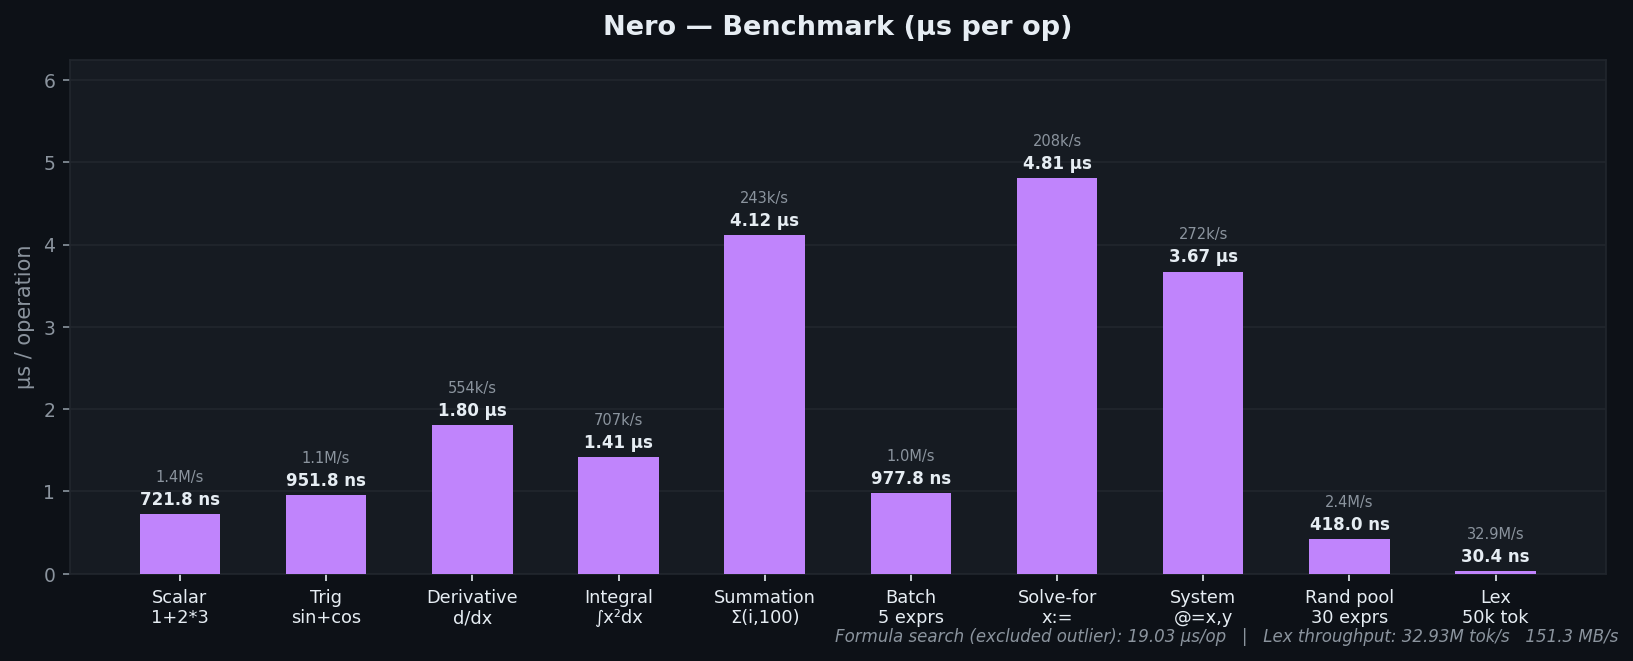
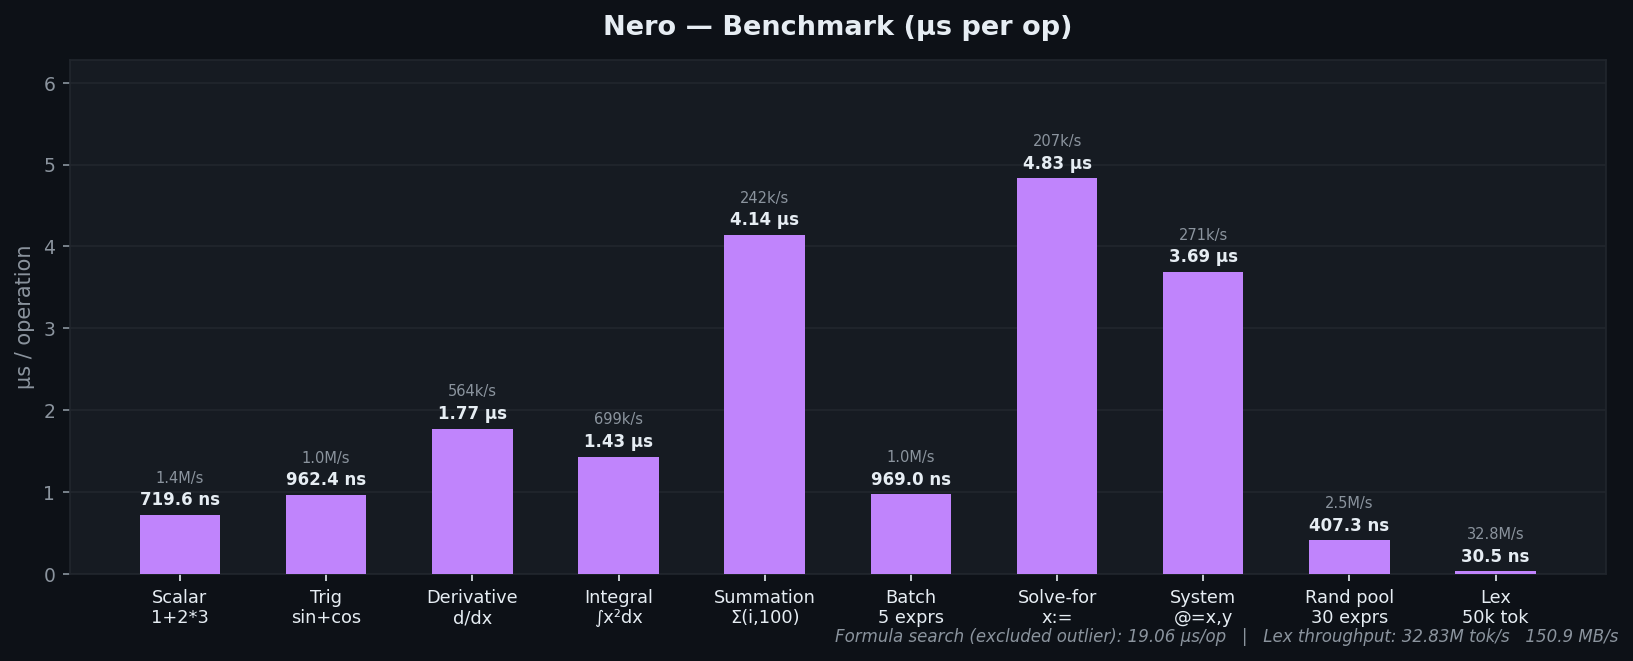
fix: ATM -> also in constants_gen.ts

diff --git a/scripts/constants_gen.ts b/scripts/constants_gen.ts
@@ -36,7 +36,7 @@ const CONSTANTS: Constant[] = [
     ["m_n",       "1.674927*10^{-27}",       "\\kg",                          "Neutron mass"],
 
     ["R_g",       "8.31446",                 "\\J\\K^{-1}\\mol^{-1}",         "Ideal gas constant"],
-    ["R_a",       "0.0821",                  "\\ATM\\L\\K^{-1}\\mol^{-1}",    "Ideal gas constant (atm units)"],
+    ["R_a",       "0.0821",                  "\\atm\\L\\K^{-1}\\mol^{-1}",    "Ideal gas constant (atm units)"],
     ["C_K",       "273.15",                  "\\K",                           "Celsius->Kelvin offset"],
     ["h",         "6.62607015*10^{-34}",     "\\J\\s",                        "Planck constant"],
     ["a_0",       "5.291772*10^{-11}",       "\\m",                           "Bohr radius"],

diff --git a/README.md b/README.md
@@ -165,7 +165,7 @@ Supported:
 | $\mathrm{m_p}$ | Proton mass                                    | $1.67262192 \cdot 10^{-27} \ kg$                   |
 | $\mathrm{m_n}$ | Neutron mass                                   | $1.674927 \cdot 10^{-27} \ kg$                     |
 | $\mathrm{R_g}$ | Ideal gas constant                             | $8.31446 \ JK^{-1}mol^{-1}$                        |
-| $\mathrm{R_a}$ | Ideal gas constant (atm units)                 | $0.0821 \ ATMLK^{-1}mol^{-1}$                      |
+| $\mathrm{R_a}$ | Ideal gas constant (atm units)                 | $0.0821 \ \atmLK^{-1}mol^{-1}$                     |
 | $\mathrm{C_K}$ | Celsius->Kelvin offset                         | $273.15 \ K$                                       |
 | $\mathrm{h}$   | Planck constant                                | $6.62607015 \cdot 10^{-34} \ Js$                   |
 | $\mathrm{a_0}$ | Bohr radius                                    | $5.291772 \cdot 10^{-11} \ m$                      |
@@ -253,16 +253,16 @@ Supported:
 | Benchmark      | µs / op    | ops / sec    | op unit |
 | -------------- | ---------- | ------------ | ------- |
 | Scalar         | 0.72 µs    | 1.39 M/s     | op      |
-| Trig           | 0.95 µs    | 1.05 M/s     | op      |
-| Derivative     | 1.80 µs    | 554.0 k/s    | op      |
-| Integral       | 1.41 µs    | 707.2 k/s    | op      |
-| Summation      | 4.12 µs    | 243.0 k/s    | op      |
-| Batch          | 0.98 µs    | 1.02 M/s     | expr    |
-| Formula search | 19.03 µs   | 52.5 k/s     | op      |
-| Solve-for      | 4.81 µs    | 208.0 k/s    | op      |
-| System solver  | 3.67 µs    | 272.5 k/s    | op      |
-| Random pool    | 0.42 µs    | 2.39 M/s     | expr    |
-| Lex            | 0.03 µs    | 32.93 M/s    | token   |
+| Trig           | 0.96 µs    | 1.04 M/s     | op      |
+| Derivative     | 1.77 µs    | 564.0 k/s    | op      |
+| Integral       | 1.43 µs    | 699.3 k/s    | op      |
+| Summation      | 4.14 µs    | 241.5 k/s    | op      |
+| Batch          | 0.97 µs    | 1.03 M/s     | expr    |
+| Formula search | 19.06 µs   | 52.5 k/s     | op      |
+| Solve-for      | 4.83 µs    | 206.9 k/s    | op      |
+| System solver  | 3.69 µs    | 271.0 k/s    | op      |
+| Random pool    | 0.41 µs    | 2.45 M/s     | expr    |
+| Lex            | 0.03 µs    | 32.83 M/s    | token   |
 
 <details>
 <summary>Raw numbers</summary>
@@ -270,20 +270,20 @@ Supported:
 ```
 === Nero Benchmarks ===
 
-Scalar: 1 + 2 * 3                                           72.18 ms       1385378/s
-Trig: sin(pi/6) + cos(pi/3)                                 47.59 ms       1050734/s
-Derivative: d/dx(x^3) at x=2                                18.05 ms        554138/s
-Integral: int_0^1 x^2 dx                                     7.07 ms        707243/s
-Summation: sum_{i=1}^{100}(i)                               20.58 ms        242927/s
-Batch (5 unit-carrying exprs)                               48.89 ms        204552/s
-Formula search (acceleration target)                        19.03 ms         52549/s
-Solve-for: x^2 - 4 ; x :=                                   14.42 ms        207998/s
-System solver: x+y=5, x-y=1 ; @=x,y                          7.34 ms        272353/s
-Random pool (30 exprs, 1000 rounds)                         12.54 ms         79738/s
+Scalar: 1 + 2 * 3                                           71.96 ms       1389747/s
+Trig: sin(pi/6) + cos(pi/3)                                 48.12 ms       1038987/s
+Derivative: d/dx(x^3) at x=2                                17.73 ms        563859/s
+Integral: int_0^1 x^2 dx                                     7.15 ms        698845/s
+Summation: sum_{i=1}^{100}(i)                               20.70 ms        241553/s
+Batch (5 unit-carrying exprs)                               48.45 ms        206378/s
+Formula search (acceleration target)                        19.06 ms         52478/s
+Solve-for: x^2 - 4 ; x :=                                   14.50 ms        206967/s
+System solver: x+y=5, x-y=1 ; @=x,y                          7.38 ms        271104/s
+Random pool (30 exprs, 1000 rounds)                         12.22 ms         81805/s
 
 --- Lex Throughput ---
-Lex: 50k-token string (all token types)                    759.29 ms           659/s
-  Tokens/sec: 32.93M   Throughput: 151.3 MB/s
+Lex: 50k-token string (all token types)                    761.47 ms           657/s
+  Tokens/sec: 32.83M   Throughput: 150.9 MB/s
 ```
 
 </details>
